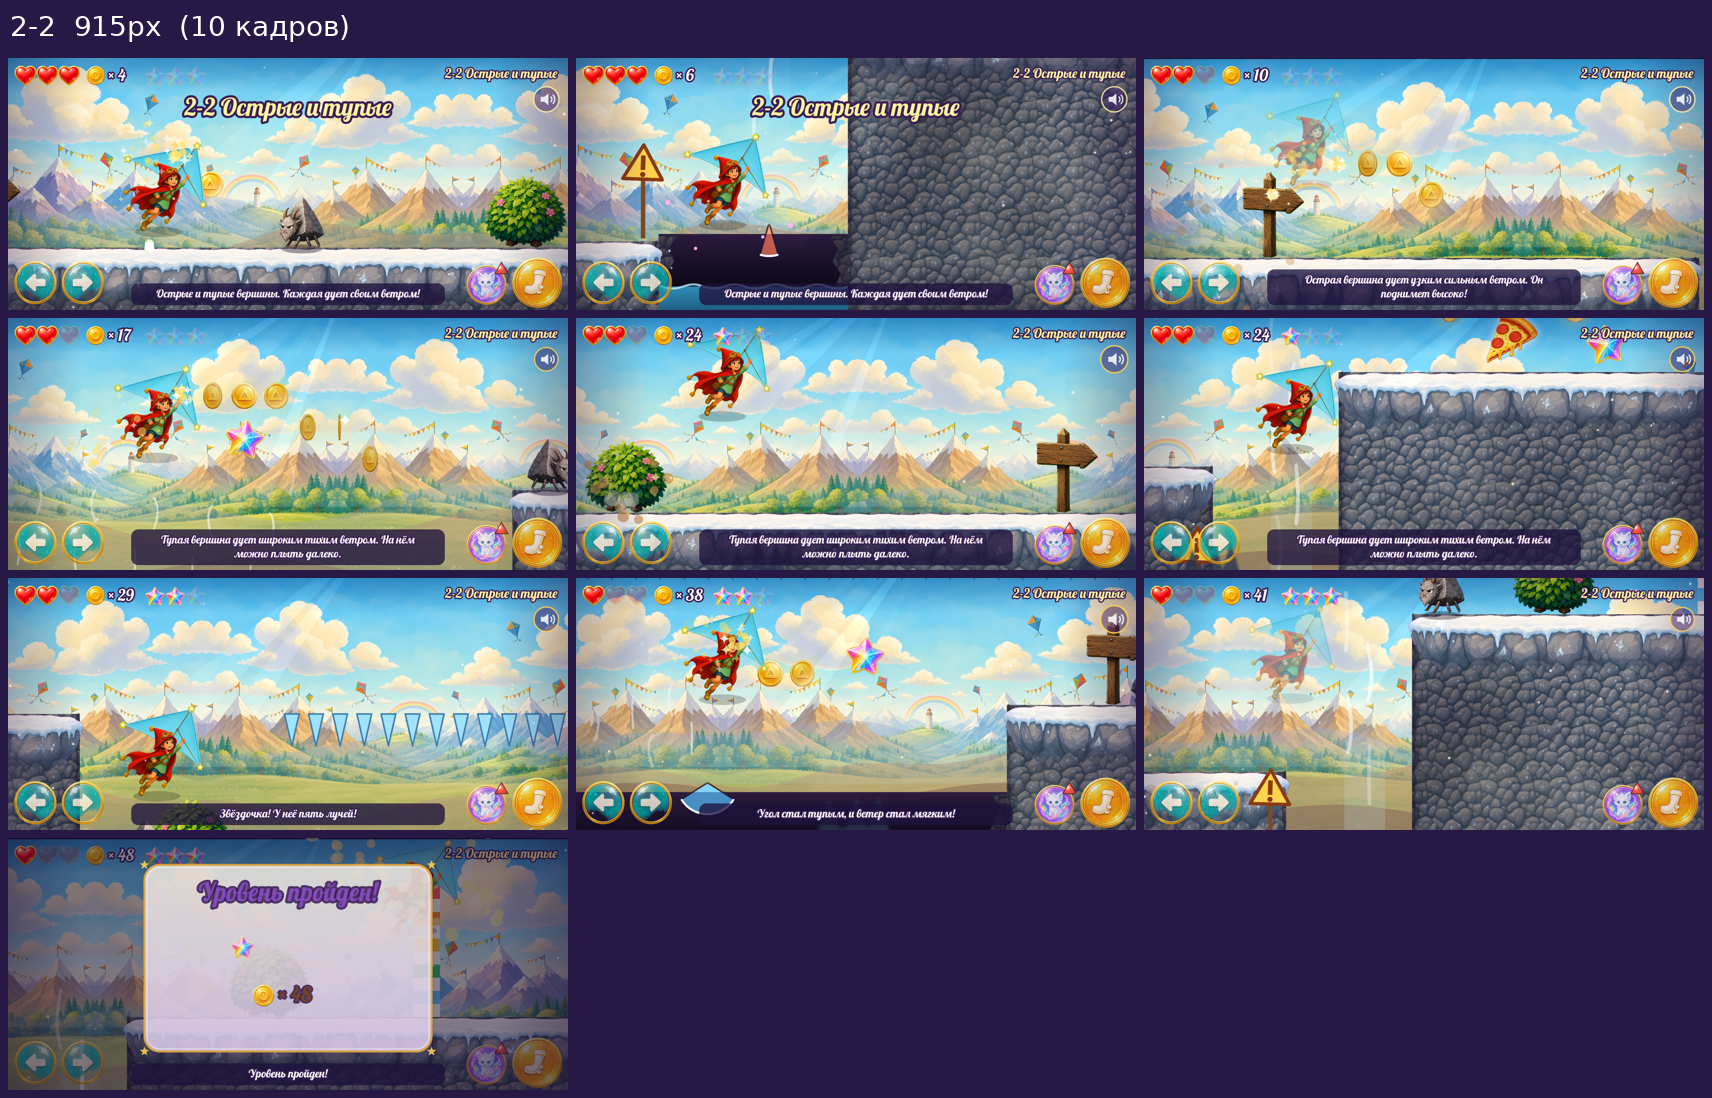
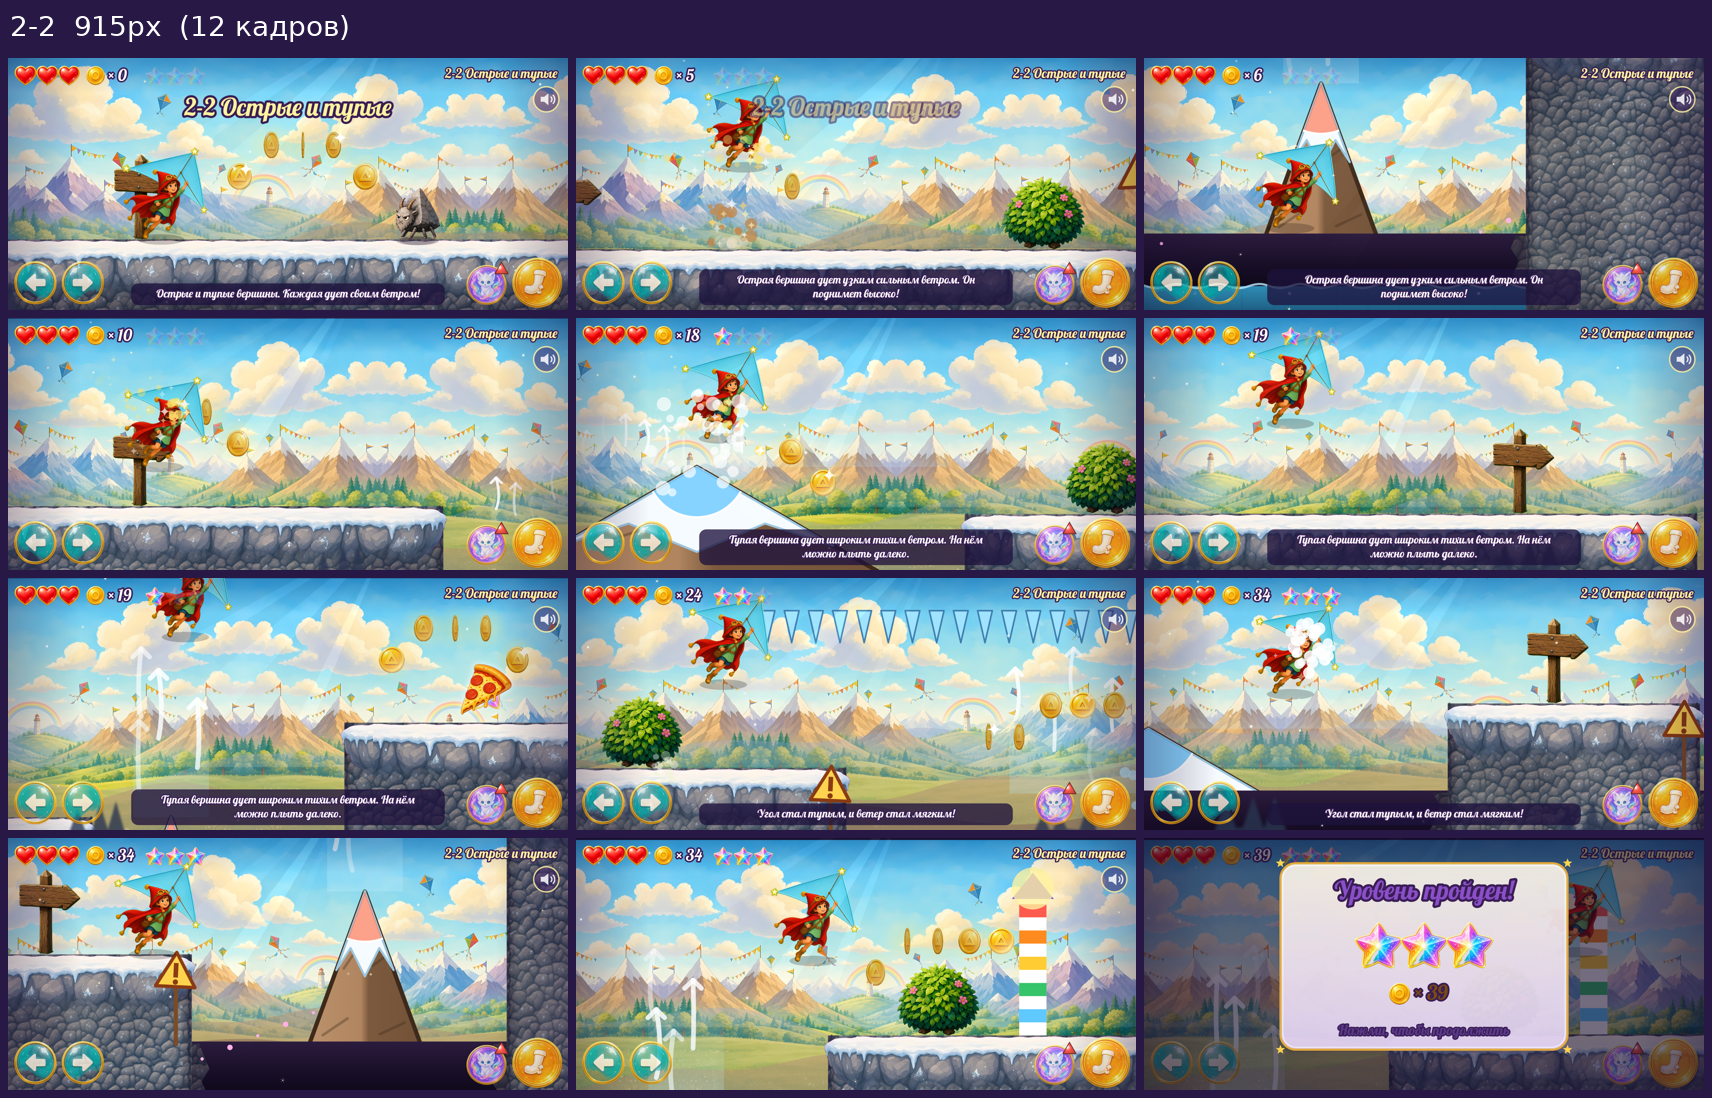
bot: no listen pause in chase levels (1-4 boulder caught bot)

diff --git a/js/game.js b/js/game.js
@@ -488,7 +488,7 @@ const TXTS={};
 const STATS={frames:0,ground:0,badFeet:0,minFps:999,levels:{}};G.stats=STATS;
 function botThink(dt){if(!G.bot||G.scene=='map'||G.scene=='title')return;BOT.l=0;BOT.r=1;BOT.f=0;const p=P;G.bt=(G.bt||0)+dt;
  // бот «слушает», как ребёнок: стоит на земле, пока ждёт новое задание (до 4 с)
- if(p.ground&&!L.meta.boss&&!G.won&&VQ.some(q=>q.p==3)&&!(()=>{const c=Math.floor(p.x/T);for(let k=0;k<7;k++)for(let y=0;y<11;y++){const v=tileAt(c+k,y);if(v==4||v==7)return 1}return 0})()){G.bw=(G.bw||0)+dt;if(G.bw<4){BOT.r=0;return}}else G.bw=0;
+ if(p.ground&&!L.meta.boss&&!L.meta.chase&&!G.won&&VQ.some(q=>q.p==3)&&!(()=>{const c=Math.floor(p.x/T);for(let k=0;k<7;k++)for(let y=0;y<11;y++){const v=tileAt(c+k,y);if(v==4||v==7)return 1}return 0})()){G.bw=(G.bw||0)+dt;if(G.bw<4){BOT.r=0;return}}else G.bw=0;
  const F=FORMS[p.form],[w,h]=dims(p);const fx=Math.floor((p.x+w/2+30)/T),fy=Math.floor((p.y-5)/T);
  // задания
  for(const o of ENTS){const x=EX[o.type];if(x&&x.bot&&!o.dead&&x.bot(o,dt))return}
